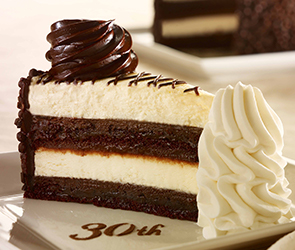
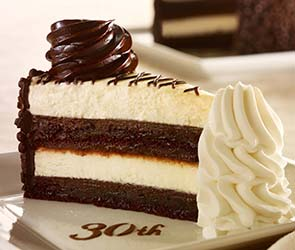
optimiztion img size

diff --git a/css/style.css b/css/style.css
@@ -420,6 +420,16 @@ template {
   display: none;
 }
 /* @import (less) "global/bootstrap.css"; */
+/* .add-font(@font-url, @font-name, @font-weight: normal, @font-style: normal) {
+  font-family: @font-name;
+  src: url('@{font-folder}@{font-url}.eot'); // IE9 Compat Modes 
+  src: url('@{font-folder}@{font-url}.eot?#iefix') format('embedded-opentype'), // IE6-IE8 
+  url('@{font-folder}@{font-url}.woff') format('woff'), // Pretty Modern Browsers 
+  url('@{font-folder}@{font-url}.ttf') format('truetype'), // Safari, Android, iOS 
+  url('@{font-folder}@{font-url}.svg#@{font-name}') format('svg'); // Legacy iOS  
+  font-weight: @font-weight;
+  font-style: @font-style;
+} */
 @font-face {
   font-family: "Alegreya";
   font-weight: 700;

diff --git a/js/main.js b/js/main.js
@@ -2,8 +2,8 @@ var slides = document.querySelectorAll('.slider__item');
 var btnPrev = document.querySelector('.btn--prev');
 var btnNext = document.querySelector('.btn--next');
                       
-window.onload = initSlider;
-
+window.onload  = initSlider();
+console.log(slides);
 function initSlider() {//выстаиваем слайды
   for(var i = 0;  i < slides.length; i++) {
     slides[i].style.left = (slides[i].offsetWidth * i) + "px";
@@ -37,5 +37,4 @@ btnPrev.onclick = function nextSlide() {//пред. слайд
       slides[i].style.left = parseInt(slides[i].style.left) + slides[0].offsetWidth + "px";
     }
   } else lastSlide();
-  
 }

diff --git a/index.html b/index.html
@@ -2,7 +2,7 @@
 <html lang="ru">
 <head>
     <meta charset="UTF-8">
-    <meta name="viewport" content="width=device-width, initial-scale=1">
+    <meta name="viewport" content="width=1300">
     <title>Bakery</title>
     <link rel="stylesheet" href="css/style.css">
 </head>
@@ -236,6 +236,6 @@
       </nav>
     </div>
   </footer>
-  <script type="text/javascript" src="js/main.js"></script>
+  <script src="js/main.js"></script>
 </body>
 </html>
